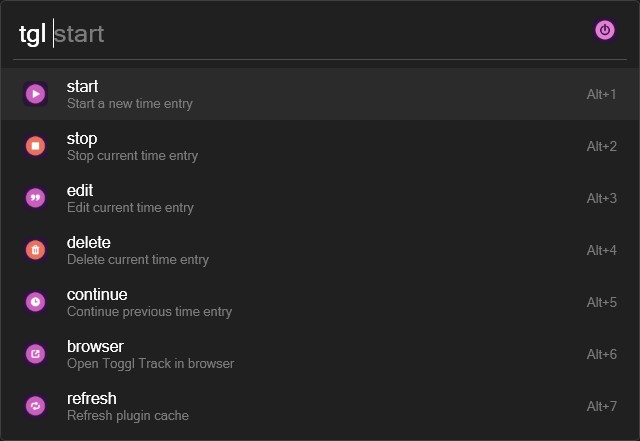
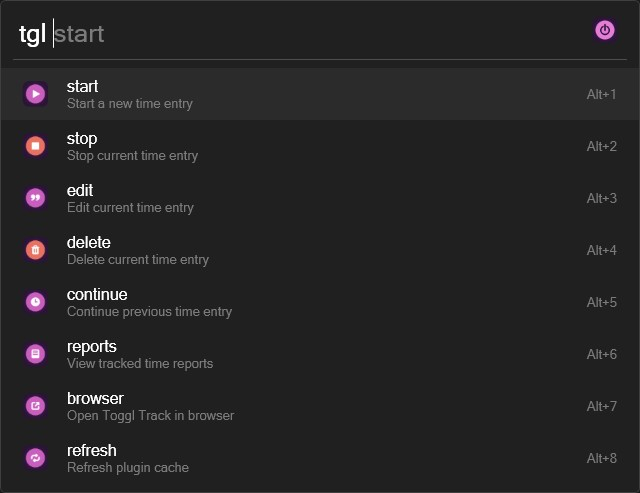
docs(readme): :memo: add `tgl reports`

diff --git a/README.md b/README.md
@@ -31,15 +31,19 @@ A performant [Toggl Track](https://track.toggl.com/timer) plugin for [Flow Launc
 - [Screenshots](#screenshots)
 - [Setup Instructions](#setup-instructions)
 
+# Commands
+
+- `Start` new time entries
+- `Edit` currently running time entries
+- `Stop` currently running time entries
+- `Delete` currently running time entries
+- `Continue` a previously tracked time entry
+- `Reports` of tracked time by projects, clients, and entries
+- `Browser` quick-launch shortcut
+
 # Features
 
 - Simple, user-friendly interface
-- Start new time entries
-- Edit currently running time entries
-- Stop currently running time entries
-- Delete currently running time entries
-- Continue a previously tracked time entry
-- Open in browser shortcut
 - Support for projects, clients, and workspaces
 - Coloured icons for projects
 - Human-friendly date and time display
@@ -69,6 +73,23 @@ A performant [Toggl Track](https://track.toggl.com/timer) plugin for [Flow Launc
 
 ## `tgl continue`
 ![Continue previous time entry](./assets/screenshots/continue.jpg)
+
+## `tgl reports`
+![View tracked time reports](./assets/screenshots/reports.jpg)
+
+![View tracked time report from yesterday](./assets/screenshots/reports-yesterday.jpg)
+
+![Tracked time report grouping options](./assets/screenshots/reports-groupings.jpg)
+
+![View tracked time report by project](./assets/screenshots/reports-projects.jpg)
+
+![View tracked time report by project entries](./assets/screenshots/reports-projects-entries.jpg)
+
+![View tracked time report by client](./assets/screenshots/reports-clients.jpg)
+
+![View tracked time report by client projects](./assets/screenshots/reports-clients-projects.jpg)
+
+![View tracked time report by entries](./assets/screenshots/reports-entries.jpg)
 
 # Setup Instructions
 
